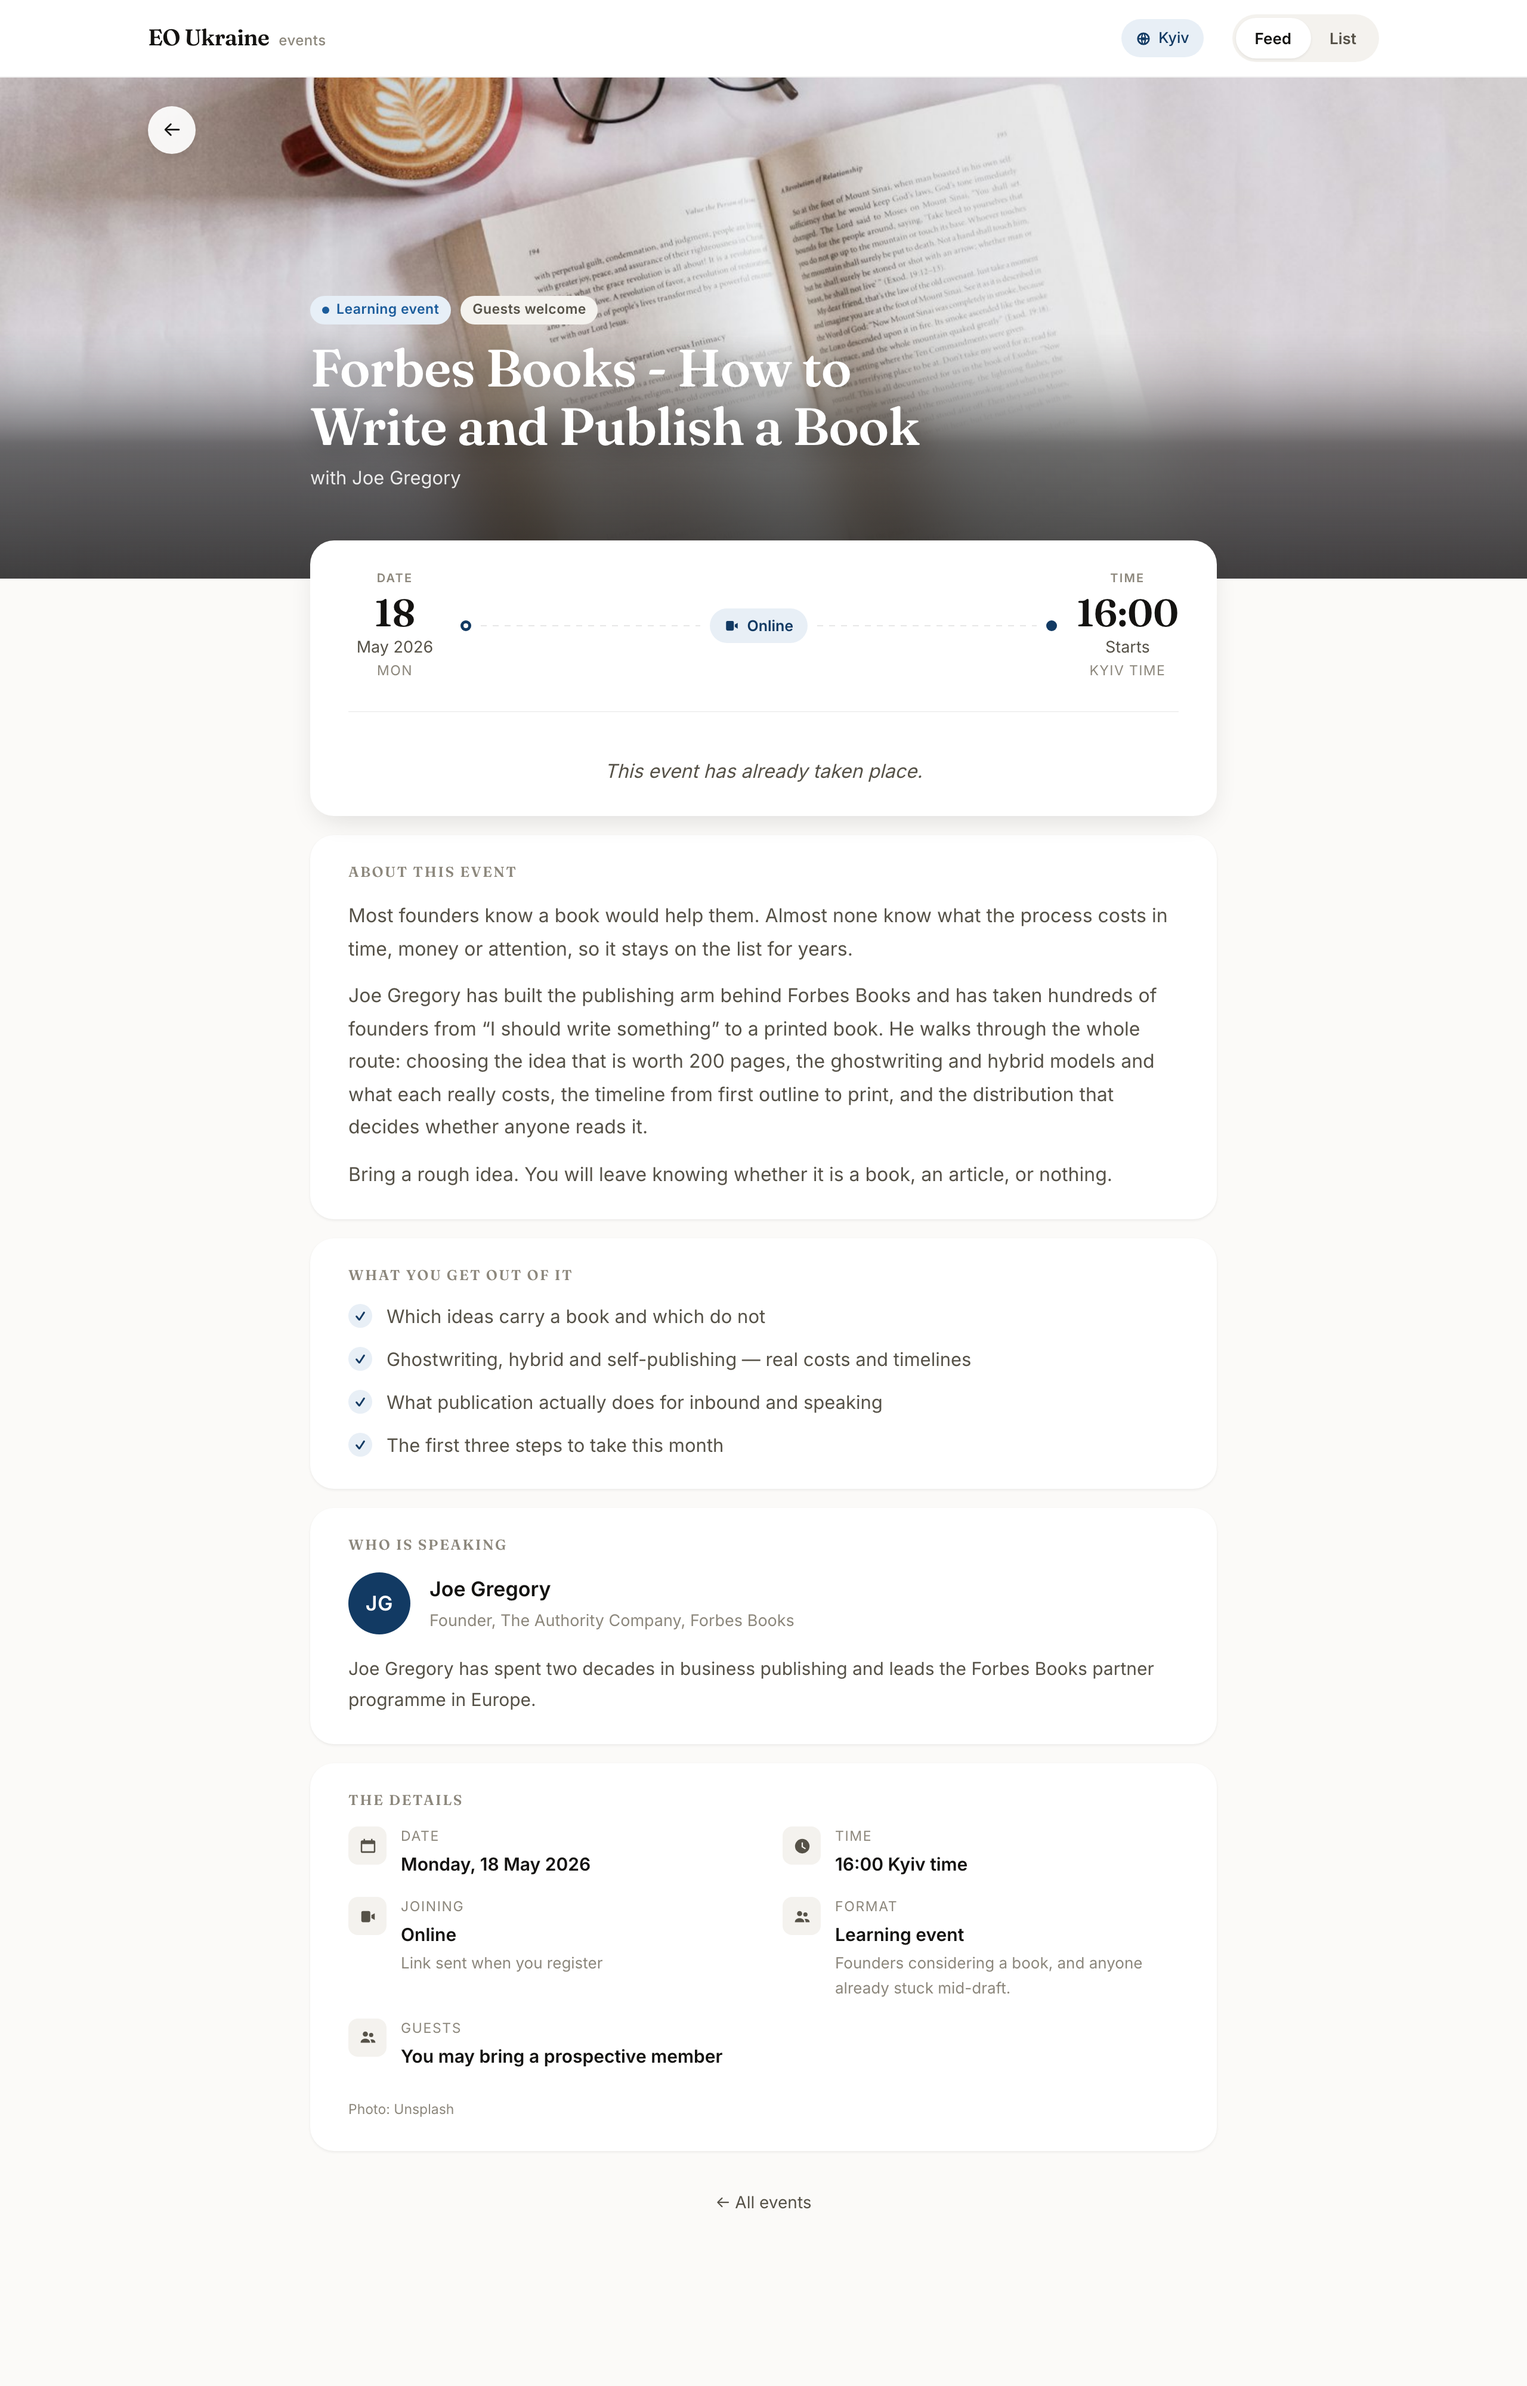
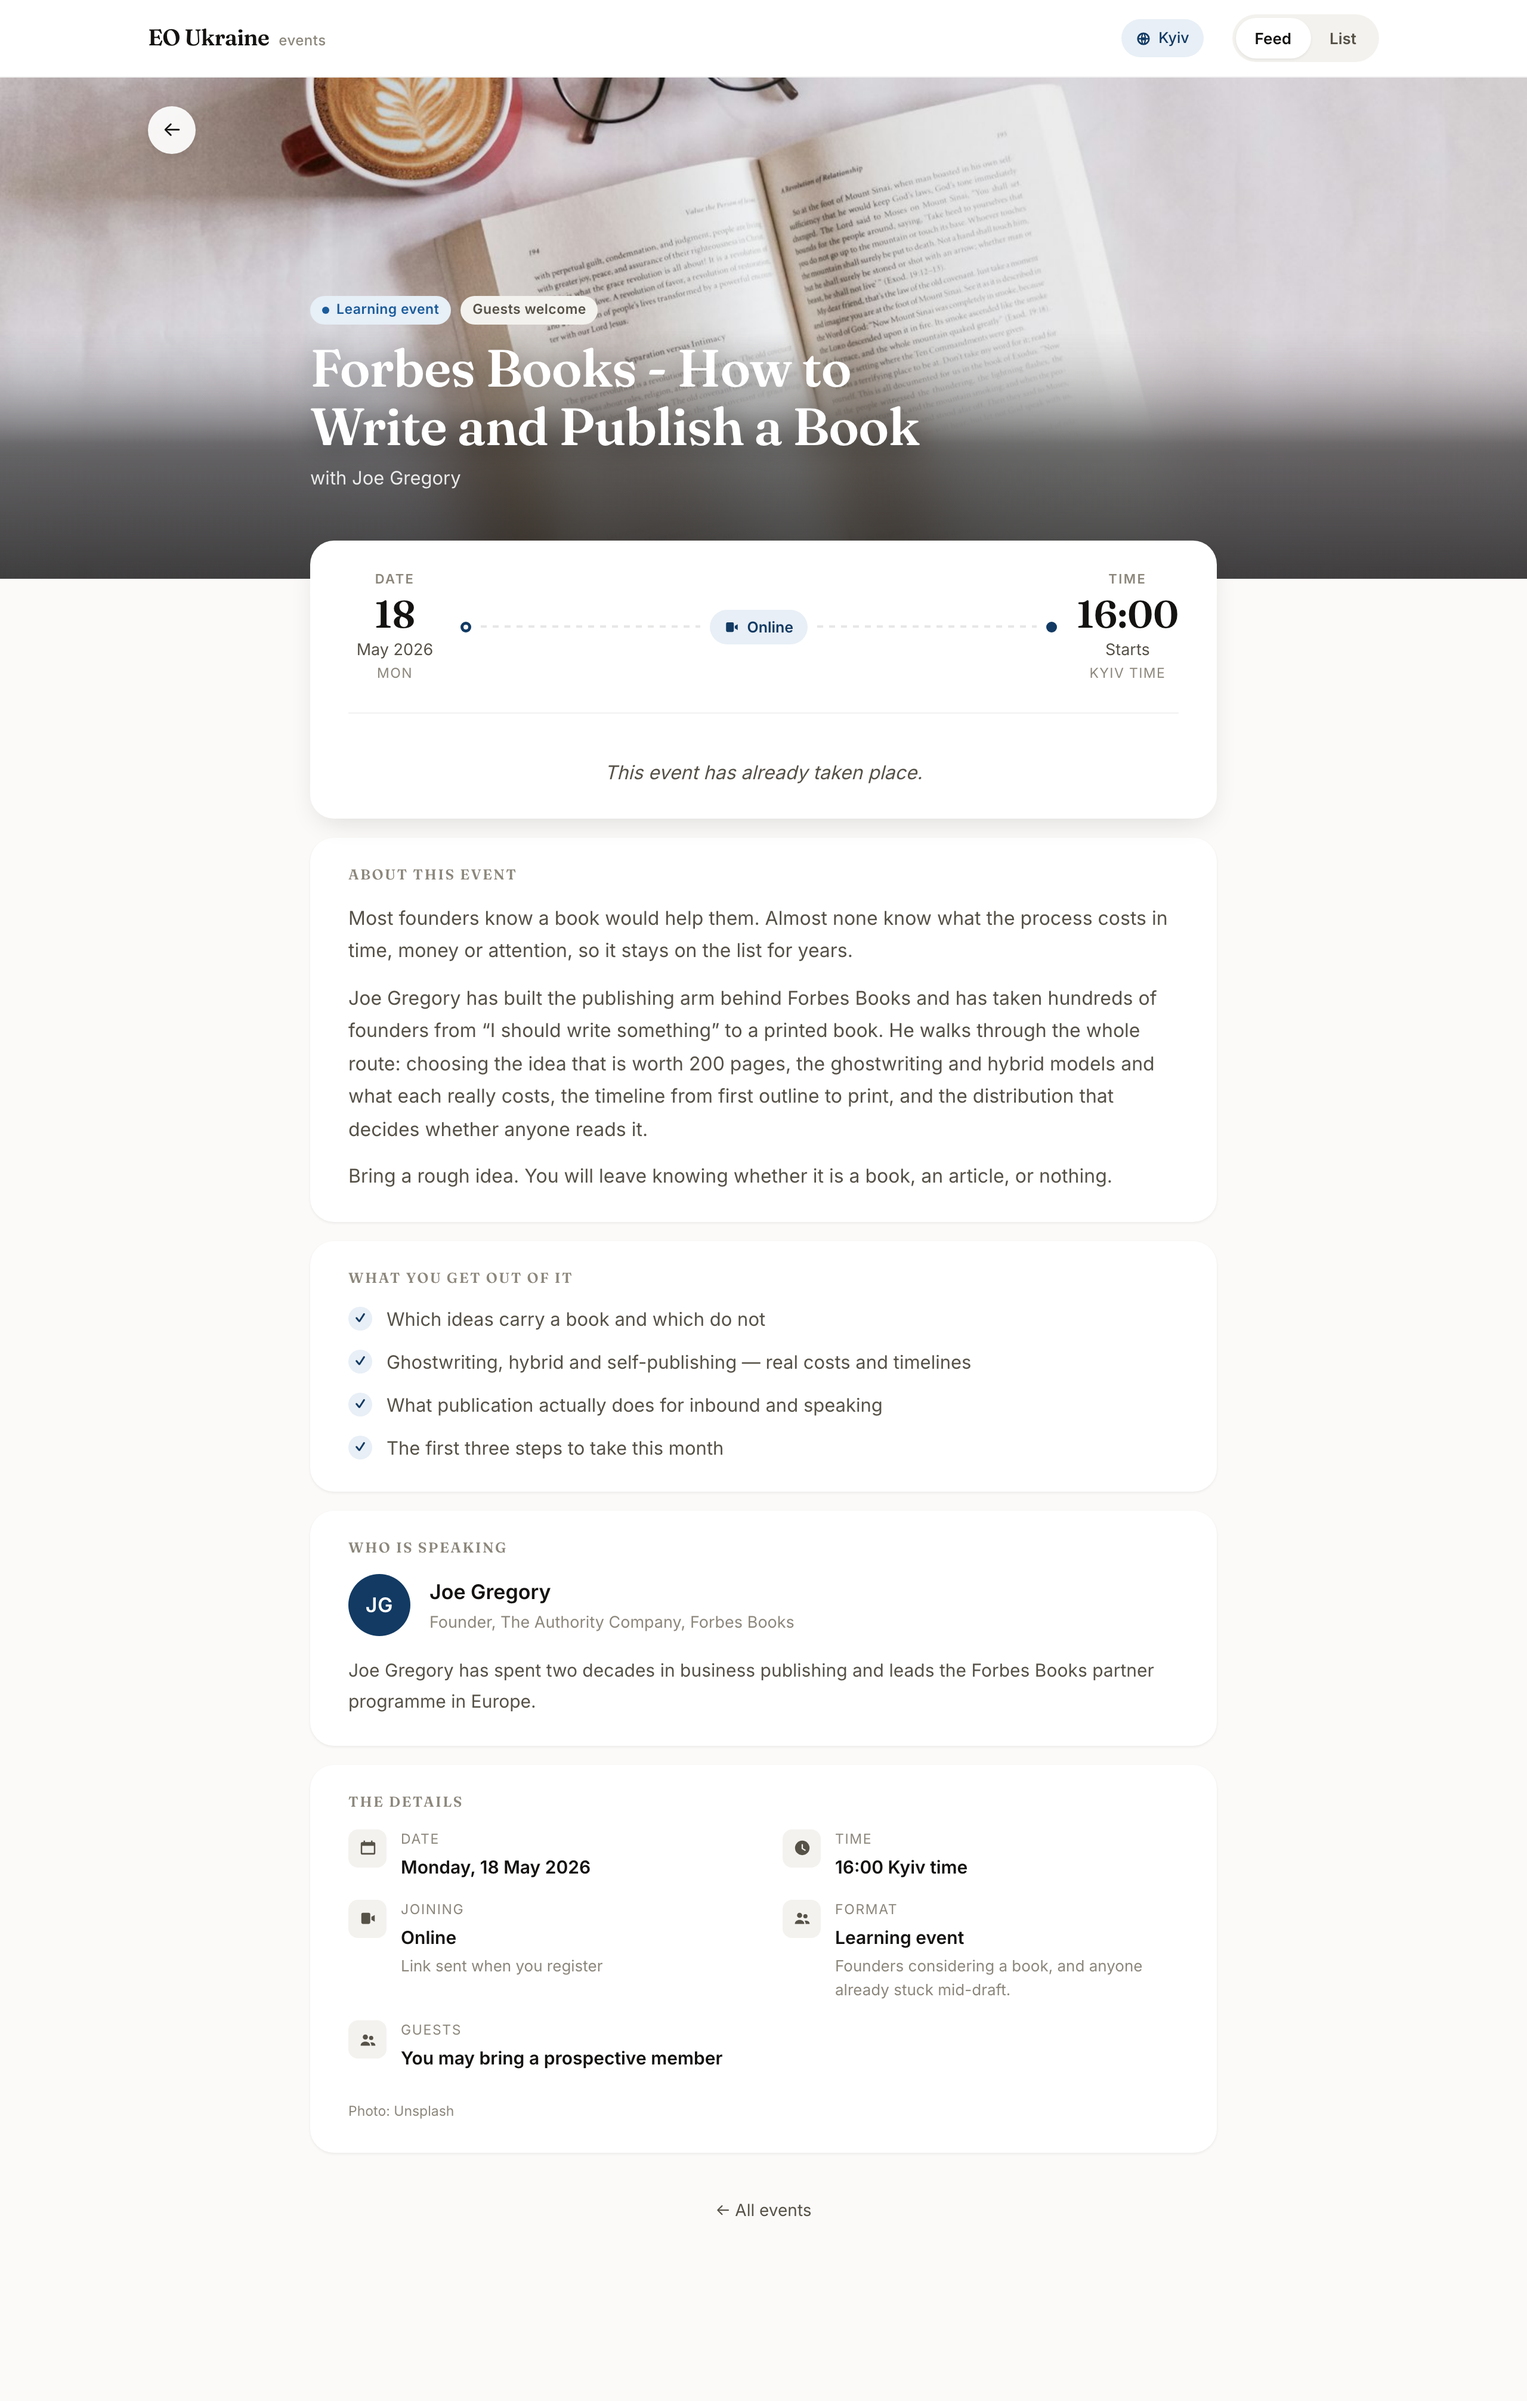
Make inline links look like links, and hold every width to a check
"Open it in Google Calendar" was a link nobody could tell was one. The base rule
strips every anchor of colour and underline so a card or a chip can be a link
without looking like one — which is right, but it also silenced the anchors that
are genuinely links inside a sentence. Those now carry an underline and the
accent colour, and keep the note's own colour when the note is a success so the
link does not fight the message around it.

Then the responsive pass, which turned up a real break: at 320px the event page
scrolled sideways. `.ev-col` is a grid, and a grid item defaults to
min-width:auto — so the no-wrap pill inside the journey strip set the minimum
width of the whole page. min-width:0 on the items, the pill wraps on the
narrowest phones, and the sticky bar's date now truncates rather than pushing.

Standalone controls that were too small for a thumb are now at least 24px, and
the journey labels moved off 10px.

tools/test-responsive.mjs checks every page at seven widths from 320 to 1680 for
sideways scroll, elements escaping the viewport, tap targets under 24px and type
under 10.5px. It measures a checkbox by its LABEL, which is what a finger
actually hits, and exempts links inside running text — demanding 24px of a word
in a sentence would mean never linking one, which is worse than the thing being
checked. All seven widths clean.

diff --git a/public/assets/css/components.css b/public/assets/css/components.css
@@ -171,8 +171,12 @@
 .ev-with{margin-top:var(--sp-2);font-size:15.5px;color:rgba(255,255,255,.88)}
 
 /* the column of cards, lifted so the first one overlaps the photograph */
+/* min-width:0 on the items, or the column cannot be narrower than its widest unbreakable
+   child. A grid item defaults to min-width:auto, so the no-wrap pill inside the journey strip
+   was setting the floor for the whole page and a 320px phone scrolled sideways. */
 .ev-col{max-width:var(--col);margin:0 auto;display:grid;gap:var(--sp-4);
-  padding-bottom:var(--sp-8)}
+  padding-bottom:var(--sp-8);min-width:0}
+.ev-col > *{min-width:0}
 .pcard{background:var(--surface);border-radius:var(--r-lg);box-shadow:var(--e1);
   padding:var(--sp-5) var(--sp-6)}
 .pcard.lift{margin-top:calc(var(--sp-6) * -1);position:relative;z-index:4;box-shadow:var(--e3)}
@@ -201,14 +205,16 @@
 .rich hr{border:0;border-top:1px solid var(--rule-2);margin:var(--sp-5) 0}
 
 /* the journey strip */
-.jrn{display:grid;grid-template-columns:auto 1fr auto;align-items:center;gap:var(--sp-4)}
+.jrn{display:grid;grid-template-columns:auto 1fr auto;align-items:center;gap:var(--sp-4);
+  min-width:0}
+.jrn > *{min-width:0}
 .jrn-end{text-align:center;min-width:78px}
 .jrn-end b{display:block;font-family:var(--font-display);font-size:32px;font-weight:600;
   line-height:1.05;color:var(--ink);font-variant-numeric:tabular-nums}
 .jrn-end span{display:block;font-size:13.5px;color:var(--ink-2);margin-top:2px}
 .jrn-end i{display:block;font-style:normal;font-size:11.5px;letter-spacing:.06em;
   text-transform:uppercase;color:var(--ink-3);margin-top:1px}
-.jrn-line{display:flex;align-items:center;gap:var(--sp-2)}
+.jrn-line{display:flex;align-items:center;gap:var(--sp-2);min-width:0}
 .jrn-rule{flex:1;height:1.5px;background:repeating-linear-gradient(to right,
   var(--rule) 0 5px,transparent 5px 10px)}
 .jrn-dot{width:9px;height:9px;border-radius:50%;flex:none;
@@ -251,16 +257,18 @@
 .credit{margin-top:var(--sp-5) !important;font-size:11.5px !important;color:var(--ink-3) !important}
 
 /* mobile action bar — Register is never scrolled away from */
-.ev-bar{display:none;position:fixed;left:0;right:0;bottom:0;z-index:20;
+.ev-bar{display:none;position:fixed;left:0;right:0;bottom:0;z-index:20;max-width:100%;
   align-items:center;gap:var(--sp-4);padding:var(--sp-3) var(--sp-4);
   background:rgba(255,255,255,.94);backdrop-filter:blur(10px);
   border-top:1px solid var(--rule-2);box-shadow:0 -4px 20px rgba(20,19,17,.07)}
-.ev-bar b{display:block;font-size:14px;color:var(--ink)}
+.ev-bar > div{min-width:0}
+.ev-bar b{display:block;font-size:14px;color:var(--ink);overflow:hidden;text-overflow:ellipsis;
+  white-space:nowrap}
 .ev-bar span{display:block;font-size:12px;color:var(--ink-3)}
 .ev-bar .register{margin-left:auto}
 
 .backlink{display:inline-flex;align-items:center;gap:6px;font-size:14px;color:var(--ink-2);
-  justify-self:center;margin-top:var(--sp-4)}
+  justify-self:center;margin-top:var(--sp-4);min-height:32px;padding:0 var(--sp-2)}
 .backlink:hover{color:var(--ink)}
 
 /* --- misc ------------------------------------------------------------- */
@@ -299,7 +307,7 @@
   .jrn{grid-template-columns:auto 1fr auto;gap:var(--sp-2)}
   .jrn-end{min-width:62px}
   .jrn-end b{font-size:24px}
-  .jrn-mid{padding:5px 10px;font-size:12px}
+  .jrn-mid{padding:5px 10px;font-size:12px;white-space:normal;text-align:center}
   /* on a phone the dashed rules shrink to a stub, which reads as damage rather than distance */
   .jrn-rule{display:none}
   .jrn-line{justify-content:center;gap:var(--sp-2)}
@@ -394,7 +402,7 @@
 
 /* Labels on the journey ends. Without them a big "16" for the sixteenth reads as a time,
    because the other end of the strip genuinely is one. */
-.jrn-end u{display:block;text-decoration:none;font-size:10px;font-weight:600;
+.jrn-end u{display:block;text-decoration:none;font-size:11px;font-weight:600;
   letter-spacing:.11em;text-transform:uppercase;color:var(--ink-3);margin-bottom:4px}
 /* The invitation form standing in for the Register button. */
 .attend.wide{display:grid;grid-template-columns:1fr auto;gap:var(--sp-2)}
@@ -415,7 +423,7 @@
 .subscribe-note.good{color:var(--t-global)}
 .subscribe-note.bad{color:var(--t-social)}
 .attend-opt{flex-basis:100%;grid-column:1/-1;display:flex;align-items:center;gap:8px;
-  font-size:12.5px;color:var(--ink-3);margin-top:var(--sp-1);cursor:pointer}
+  font-size:12.5px;color:var(--ink-3);margin-top:var(--sp-1);cursor:pointer;min-height:28px}
 /* flex:none, or the grid stretches the box into a rectangle. */
 .attend-opt input{width:15px;height:15px;flex:none;accent-color:var(--accent);margin:0}
 
@@ -446,3 +454,28 @@
 .timeswitch.on{background:var(--accent-soft);color:var(--accent)}
 .timeswitch:focus-visible{outline:2px solid var(--accent);outline-offset:2px}
 @media (max-width:520px){.timeswitch span{display:none}.timeswitch{padding:0 10px}}
+
+/* --- links inside running text -------------------------------------------
+   The base rule strips every anchor of colour and underline so that cards, chips and buttons
+   can be links without looking like them. The cost is that a genuine link inside a sentence —
+   "Open it in Google Calendar", "leave the list" — reads as ordinary text and nobody presses
+   it. These are the places where an anchor IS a link and has to look like one. */
+.addcal-note a, .subscribe-note a, .unsub-note a, .micro a,
+.banner a, .empty a, .pcard p a, .unsub p a {
+  color:var(--accent-2);
+  text-decoration:underline;
+  text-decoration-thickness:1px;
+  text-underline-offset:3px;
+  text-decoration-color:color-mix(in srgb, var(--accent-2) 45%, transparent);
+  font-weight:500;
+}
+.addcal-note a:hover, .subscribe-note a:hover, .unsub-note a:hover, .micro a:hover,
+.banner a:hover, .empty a:hover, .pcard p a:hover, .unsub p a:hover {
+  text-decoration-color:currentColor;
+}
+.addcal-note a:focus-visible, .subscribe-note a:focus-visible, .unsub-note a:focus-visible,
+.micro a:focus-visible, .banner a:focus-visible, .pcard p a:focus-visible {
+  outline:2px solid var(--accent);outline-offset:2px;border-radius:3px;
+}
+/* Inside a success note the link has to stay legible against the green, not fight it. */
+.addcal-note.good a, .subscribe-note.good a, .unsub-note.good a { color:var(--t-global) }

diff --git a/README.md b/README.md
@@ -139,6 +139,7 @@ That convenience exists locally only; Cloudflare always uses its own secrets.
 | `npm test` | the sheet parser, against fixtures. No network, no credentials |
 | `npm run data` | regenerate the demo data from the legacy snapshot |
 | `npm run shots` | screenshot every view; fails on a console error |
+| `npm run responsive` | every page at seven widths, 320px to 1680px: sideways scroll, overflow, tap targets, unreadable type |
 
 ## The demo data path
 
